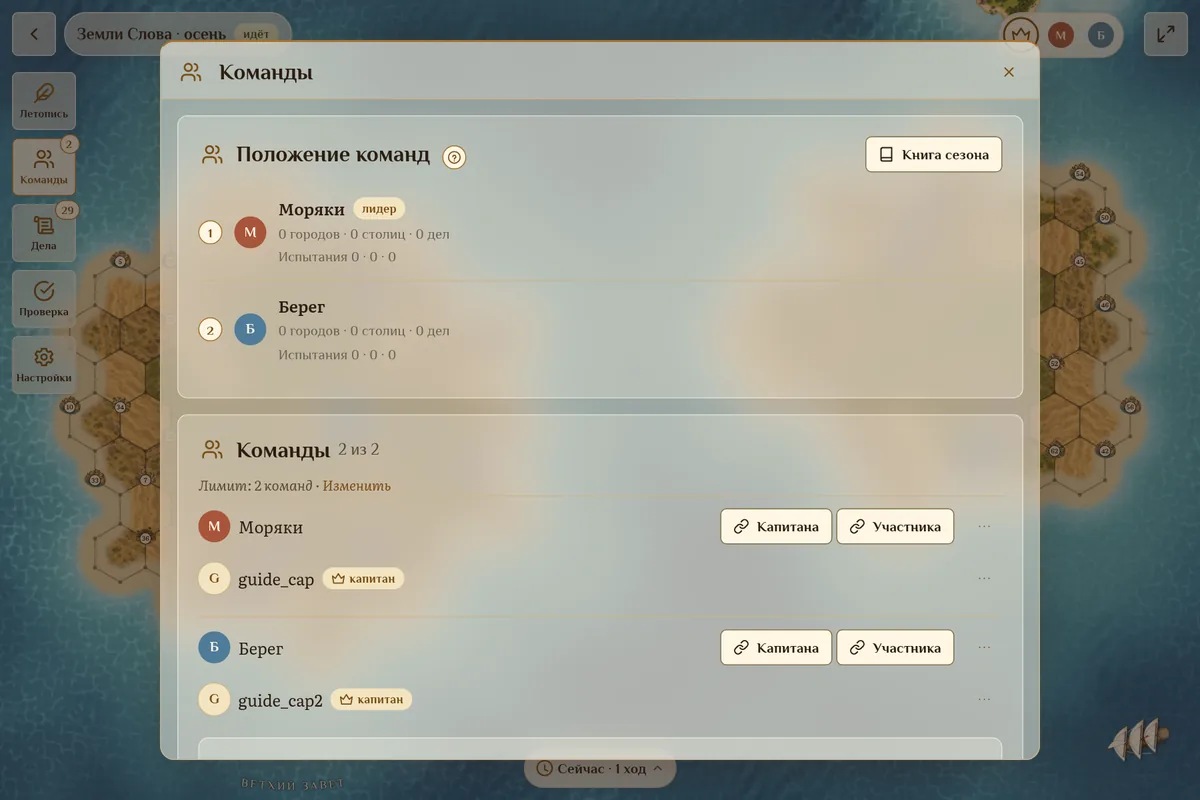
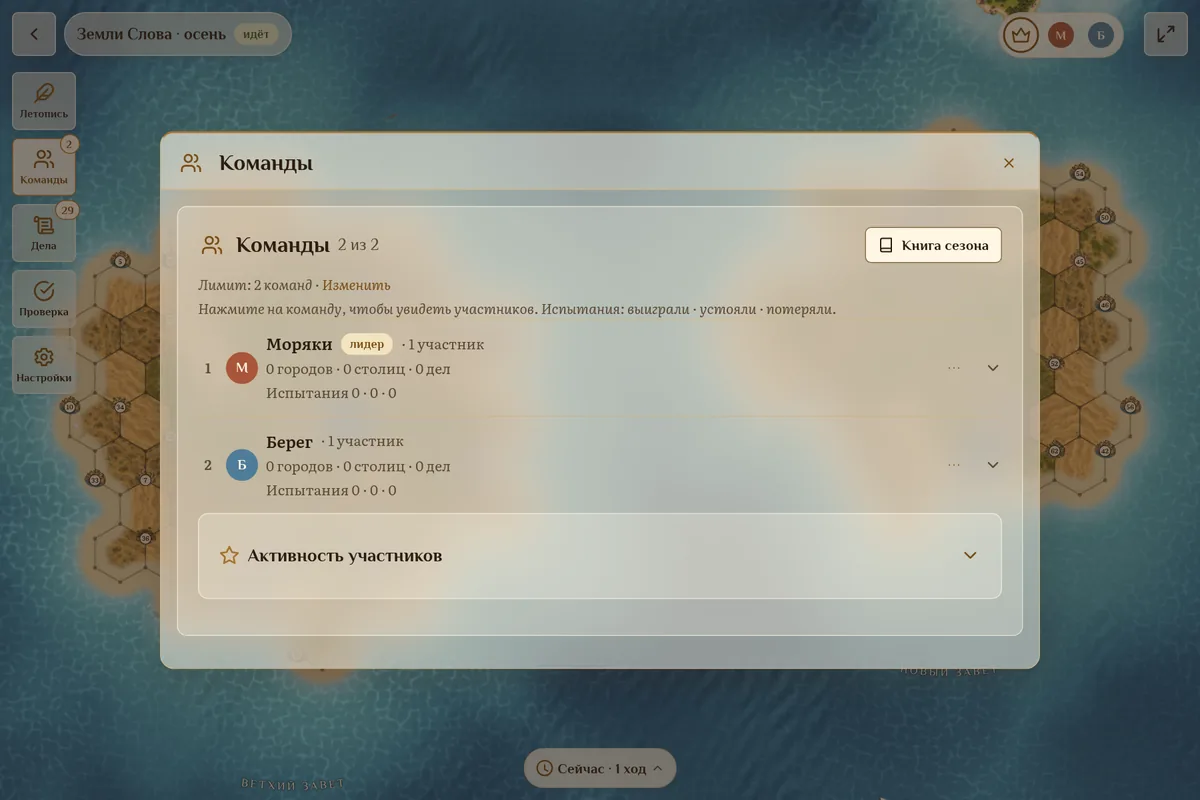
Блок «Команды» администратора: положение и список команд объединены, строка раскрывает участников
Claude-Session: https://claude.ai/code/session_01GYZTpVpHB6EzyvMrXyiWEP

diff --git a/apps/web/src/pages/TeamsBlock.tsx b/apps/web/src/pages/TeamsBlock.tsx
@@ -1,5 +1,7 @@
 import { useCallback, useEffect, useState, type FormEvent } from "react";
-import { api, ApiError, GAME_ROLE_ICON, GAME_ROLE_LABEL, TEAM_ROLE_LABEL, type GameRole, type TeamDto } from "../lib/api";
+import { api, ApiError, GAME_ROLE_ICON, GAME_ROLE_LABEL, TEAM_ROLE_LABEL, type GameRole, type StandingRow, type StandingsDto, type TeamDto } from "../lib/api";
+import { Link } from "react-router-dom";
+import { plural } from "../lib/format";
 import { useUi } from "../lib/ui";
 import { t } from "../lib/i18n";
 import { Icon } from "../components/Icon";
@@ -28,6 +30,10 @@ export function TeamsBlock({ gameId, teamCount, status, version = 0, onChange, g
   const [copiedKey, setCopiedKey] = useState<string | null>(null);
   /** Кому раскрыт ряд игровых ролей (пилюли вместо системного списка, 23.09). */
   const [pick, setPick] = useState<string | null>(null);
+  /** Положение команд и список участников — один раздел (решение владельца 23.09): строка команды с местом и цифрами,
+   * по нажатию раскрываются участники, приглашения и меню. */
+  const [standings, setStandings] = useState<StandingsDto | null>(null);
+  const [expanded, setExpanded] = useState<string | null>(null);
   const [busy, setBusy] = useState(false);
   const [open, setOpen] = useState(false);
   const { confirm, notify } = useUi();
@@ -35,6 +41,7 @@ export function TeamsBlock({ gameId, teamCount, status, version = 0, onChange, g
   const fail = (err: unknown) => notify(err instanceof ApiError ? err.message : t("Ошибка сети"), "bad");
 
   const load = useCallback(() => api<{ teams: TeamDto[] }>(`/api/games/${gameId}/teams`).then((r) => { setTeams(r.teams); setLoadError(false); }).catch(() => setLoadError(true)), [gameId]);
+  useEffect(() => { if (status === "DRAFT") { setStandings(null); return; } api<StandingsDto>(`/api/games/${gameId}/standings`).then(setStandings).catch(() => {}); }, [gameId, status, version]);
   const reload = async () => { await load(); onChange?.(); };
   useEffect(() => { void load(); }, [load, teamCount, version]);
 
@@ -109,25 +116,43 @@ export function TeamsBlock({ gameId, teamCount, status, version = 0, onChange, g
     <div className="card">
       <div className="card-head">
         <h2><span className="ico"><Icon name="users" /></span>{t("Команды")} {teams && <span className="count">{t("{a} из {b}", { a: teams.length, b: teamCount })}</span>}</h2>
+        {standings && <Link to={`/games/${gameId}/book`} className="btn secondary sm"><Icon name="book" />{t("Книга сезона")}</Link>}
         {!full && <button type="button" className="sm" onClick={() => setOpen(true)} disabled={!teams}><Icon name="plus" />{t("Добавить")}</button>}
       </div>
       {teams && full && <p className="hint">{limit[0]}{goToSettings && limit[1] && <> · <a href="#settings" onClick={(e) => { e.preventDefault(); goToSettings(); }}>{limit[1]}</a></>}</p>}
-      {loadError ? <ErrorState onRetry={() => void load()} /> : !teams ? <LoadingState /> : teams.length === 0 ? <EmptyState inline icon="users" text={t("Команд пока нет: добавьте первую.")} /> : teams.map((tm) => (
-        <div key={tm.id} className="team-block">
-          <div className="row between nowrap">
-            <TeamAvatar name={tm.name} color={tm.color} withName />
-            <div className="row nowrap">
-              <span className="invite-btns" role="group" aria-label={t("Пригласить")}>
-                <button type="button" className="secondary sm" disabled={inviting === `${tm.id}:CAPTAIN`} title={t("Скопировать ссылку для капитана")} onClick={() => void inviteCopy(tm.id, "CAPTAIN")}><Icon name={copiedKey === `${tm.id}:CAPTAIN` ? "check" : "link"} />{t("Капитана")}</button>
-                <button type="button" className="secondary sm" disabled={inviting === `${tm.id}:MEMBER`} title={t("Скопировать ссылку для участников")} onClick={() => void inviteCopy(tm.id, "MEMBER")}><Icon name={copiedKey === `${tm.id}:MEMBER` ? "check" : "link"} />{t("Участника")}</button>
-              </span>
+      {standings && <p className="hint">{t("Нажмите на команду, чтобы увидеть участников. Испытания: выиграли · устояли · потеряли.")}</p>}
+      {loadError ? <ErrorState onRetry={() => void load()} /> : !teams ? <LoadingState /> : teams.length === 0 ? <EmptyState inline icon="users" text={t("Команд пока нет: добавьте первую.")} /> : ordered(teams, standings).map(({ tm, st, rank }) => {
+        const isOpen = expanded === tm.id;
+        const toggle = () => setExpanded(isOpen ? null : tm.id);
+        return (
+        <div key={tm.id} className={"team-block" + (isOpen ? " open" : "") + (st?.status === "defeated" ? " out" : "")}>
+          <div className="team-head" role="button" tabIndex={0} aria-expanded={isOpen} onClick={toggle} onKeyDown={(e) => { if (e.key === "Enter" || e.key === " ") { e.preventDefault(); toggle(); } }}>
+            {st && <span className="rank">{rank}</span>}
+            <TeamAvatar name={tm.name} color={tm.color} />
+            <div className="body">
+              <div className="name">{tm.name}
+                {st?.status === "defeated" ? <Chip tone="bad">{t("выбыла")}</Chip> : standings?.leaderTeamId === tm.id ? <Chip tone="accent">{t("лидер")}</Chip> : null}
+                <span className="muted small">· {plural(tm.members.length, ["участник", "участника", "участников"])}</span>
+              </div>
+              {st && <div className="nums">{plural(st.cities, ["город", "города", "городов"])} · {plural(st.capitals, ["столица", "столицы", "столиц"])} · {plural(st.deedsApproved, ["дело", "дела", "дел"])}</div>}
+              {st && <div className="nums">{t("Испытания {a} · {b} · {c}", { a: st.battlesWon, b: st.battlesRepelled, c: st.battlesLost })}</div>}
+            </div>
+            <div className="row nowrap" onClick={(e) => e.stopPropagation()} onKeyDown={(e) => e.stopPropagation()}>
               <ActionMenu label={t("Ещё")} items={[
                 { label: t("Переименовать"), icon: "edit", onSelect: () => { setRenameError(null); setRenaming({ id: tm.id, name: tm.name }); } },
                 ...(status === "DRAFT" ? [{ label: t("Удалить команду"), icon: "trash", danger: true, onSelect: () => void remove(tm) }] : []),
                 ...(status === "ACTIVE" && tm.status !== "defeated" ? [{ label: t("Оштрафовать: аннулировать участок пути"), icon: "alert", danger: true, onSelect: () => void penalize(tm) }] : []),
               ]} />
-              {tm.status === "defeated" && <Chip tone="bad">{t("выбыла")}</Chip>}
+              <Icon name="chevron" className="chev" />
             </div>
+          </div>
+          {isOpen && (<>
+          <div className="row team-invites">
+            <span className="muted small">{t("Пригласить")}:</span>
+            <span className="invite-btns" role="group" aria-label={t("Пригласить")}>
+              <button type="button" className="secondary sm" disabled={inviting === `${tm.id}:CAPTAIN`} title={t("Скопировать ссылку для капитана")} onClick={() => void inviteCopy(tm.id, "CAPTAIN")}><Icon name={copiedKey === `${tm.id}:CAPTAIN` ? "check" : "link"} />{t("Капитана")}</button>
+              <button type="button" className="secondary sm" disabled={inviting === `${tm.id}:MEMBER`} title={t("Скопировать ссылку для участников")} onClick={() => void inviteCopy(tm.id, "MEMBER")}><Icon name={copiedKey === `${tm.id}:MEMBER` ? "check" : "link"} />{t("Участника")}</button>
+            </span>
           </div>
           {fallback?.teamId === tm.id && <p className="hint invite-fallback"><a href={fallback.url}>{fallback.url}</a></p>}
           {tm.members.length === 0 ? <EmptyState inline icon="user" text={t("Пока никого: отправьте ссылку капитану.")} /> : (
@@ -167,8 +192,10 @@ export function TeamsBlock({ gameId, teamCount, status, version = 0, onChange, g
               })}
             </ul>
           )}
+          </>)}
         </div>
-      ))}
+        );
+      })}
       {moving && (
         <Sheet title={t("Перевести {nick}", { nick: moving.nick })} onClose={() => setMoving(null)} size="sm">
           <p className="hint">{t("В какую команду?")}</p>
@@ -209,4 +236,11 @@ export function TeamsBlock({ gameId, teamCount, status, version = 0, onChange, g
       )}
     </div>
   );
+}
+
+/** Команды в порядке положения (когда игра идёт), иначе по номеру; вместе со строкой положения и местом. */
+function ordered(teams: TeamDto[], standings: StandingsDto | null): Array<{ tm: TeamDto; st: StandingRow | null; rank: number }> {
+  if (!standings) return teams.map((tm, i) => ({ tm, st: null, rank: i + 1 }));
+  const byId = new Map(standings.standings.map((st, i) => [st.teamId, { st, rank: i + 1 }]));
+  return [...teams].sort((a, b) => (byId.get(a.id)?.rank ?? 99) - (byId.get(b.id)?.rank ?? 99)).map((tm) => ({ tm, st: byId.get(tm.id)?.st ?? null, rank: byId.get(tm.id)?.rank ?? 0 }));
 }

diff --git a/apps/web/src/lib/en/changelog.ts b/apps/web/src/lib/en/changelog.ts
@@ -1,5 +1,6 @@
 /** EN-строки раздела «Что нового». Ключ — русская строка из content/changelog.ts. */
 export const CHANGELOG_EN: Record<string, string> = {
+  "Блок «Команды» у администратора: «Положение команд» и список команд объединены. Строка команды показывает место, города, столицы, дела и испытания; нажатие раскрывает участников, приглашения и меню команды.": "Administrator’s “Teams” block: “Team standings” and the team list are merged. A team row shows rank, cities, capitals, deeds and trials; a tap opens the members, invitations and the team menu.",
   "Блок «Команды» у администратора: строки участников компактные (имя, роль и меню в одну строку), роль выбирается пилюлями, как в составе у капитана; подпись «участник» убрана, у капитана и заместителя — свои значки.": "Administrator’s “Teams” block: member rows are compact (name, role and menu on one line), the role is chosen with pills like in the captain’s roster; the “member” label is gone, the captain and deputy have their own icons.",
   "Состав на странице команды до старта: заголовок — название команды, строки компактные (имя, роль и звезда заместителя в одну строку), знак «?» убран.": "Roster on the team page before the start: the heading is the team name, rows are compact (name, role and the deputy star on one line), the “?” is gone.",
   "Старт игры закрыт, пока у всех участников нет ролей: в чек-листе администратора видно, в каких командах и сколько людей без роли. Одну роль теперь могут носить несколько участников (например, два воина).": "The game cannot start until every member has a role: the administrator’s checklist shows which teams have how many members without one. Several members can now hold the same role (for example, two warriors).",

diff --git a/apps/web/src/styles/admin.css b/apps/web/src/styles/admin.css
@@ -128,7 +128,19 @@ details.legend .items span { display: inline-flex; align-items: center; gap: var
 .trial .list { margin-top: var(--sp-2); }
 
 /* Команды: блок команды и панель приглашения */
-.team-block { padding: var(--sp-3) 0; border-top: 1px solid var(--border); }
+.team-block { padding: var(--sp-2) 0; border-top: 1px solid var(--border); }
+/* Одна строка на команду (23.09): место, аватар, имя и цифры положения; нажатие раскрывает участников. */
+.team-head { display: flex; align-items: center; gap: var(--sp-2); cursor: pointer; padding: var(--sp-1) 0; border-radius: var(--r-md); }
+.team-head:focus-visible { outline: 2px solid var(--accent); outline-offset: 2px; }
+.team-head .rank { width: 20px; color: var(--muted); font-weight: 700; font-size: var(--fs-sm); text-align: center; flex: none; }
+.team-head .body { flex: 1; min-width: 0; display: flex; flex-direction: column; gap: 2px; }
+.team-head .name { font-weight: 600; display: flex; align-items: center; gap: var(--sp-2); flex-wrap: wrap; }
+.team-head .nums { color: var(--muted); font-size: var(--fs-sm); }
+.team-head .chev { width: 18px; height: 18px; color: var(--muted); transform: rotate(90deg); transition: transform .2s; flex: none; }
+.team-block.open .team-head .chev { transform: rotate(-90deg); }
+.team-block.out .team-head .name, .team-block.out .team-head .nums { color: var(--muted); }
+.team-invites { margin: var(--sp-2) 0 0; align-items: center; gap: var(--sp-2); flex-wrap: wrap; }
+.team-head .name .small { font-weight: 400; }
 .team-block:first-of-type { border-top: 0; }
 .team-block .list { margin-top: var(--sp-2); }
 .team-block .list > li { padding: var(--sp-2) 0; }

diff --git a/apps/web/src/lib/en/admin.ts b/apps/web/src/lib/en/admin.ts
@@ -130,6 +130,7 @@ export const ADMIN: Record<string, string> = {
   "Обращения в поддержку": "Support requests", "Только открытые": "Open only", "Показать закрытые": "Show closed",
   "Игроки пишут из задания: город, задание и текущая пауза подставляются сами. Ответ уходит команде уведомлением и письмом.": "Players write from a task: the city, the task and the current pause are filled in automatically. The reply goes to the team as a notification and an email.",
   // Чек-лист старта (сервер отдаёт ключи readiness, клиент переводит)
+  "Нажмите на команду, чтобы увидеть участников. Испытания: выиграли · устояли · потеряли.": "Tap a team to see its members. Trials: won · held · lost.",
   "Команды без капитана: {names} — назначьте капитана в блоке «Команды»": "Teams without a captain: {names} — appoint a captain in the “Teams” block",
   "Участники без роли: {names} — капитан раздаёт роли в составе команды, без ролей старт закрыт": "Members without a role: {names} — the captain hands out roles in the team roster; the game cannot start without them",
   "В командах по одному участнику: {names} — нужно не меньше двух, пригласите ещё людей": "Teams with a single member: {names} — at least two are needed, invite more people",

diff --git a/apps/web/src/content/changelog.ts b/apps/web/src/content/changelog.ts
@@ -6,6 +6,7 @@ export interface ChangeDay { date: string; items: string[] }
 
 export const CHANGELOG: ChangeDay[] = [
   { date: "2026-09-23", items: [
+    "Блок «Команды» у администратора: «Положение команд» и список команд объединены. Строка команды показывает место, города, столицы, дела и испытания; нажатие раскрывает участников, приглашения и меню команды.",
     "Блок «Команды» у администратора: строки участников компактные (имя, роль и меню в одну строку), роль выбирается пилюлями, как в составе у капитана; подпись «участник» убрана, у капитана и заместителя — свои значки.",
     "Состав на странице команды до старта: заголовок — название команды, строки компактные (имя, роль и звезда заместителя в одну строку), знак «?» убран.",
     "Старт игры закрыт, пока у всех участников нет ролей: в чек-листе администратора видно, в каких командах и сколько людей без роли. Одну роль теперь могут носить несколько участников (например, два воина).",

diff --git a/apps/web/src/pages/GamePage.tsx b/apps/web/src/pages/GamePage.tsx
@@ -190,7 +190,7 @@ export function GamePage() {
               {game.status !== "DRAFT" && <JournalAdmin gameId={game.id} version={version} active={active} />}
             </div>
           )}
-          {open === "teams" && <div key="teams">{active && <FinishBlock gameId={game.id} status={game.status} version={version} onChanged={refresh} part="standings" />}<TeamsBlock gameId={game.id} teamCount={game.teamCount} status={game.status} version={version} onChange={bump} goToSettings={() => setTab("settings")} /></div>}
+          {open === "teams" && <div key="teams"><TeamsBlock gameId={game.id} teamCount={game.teamCount} status={game.status} version={version} onChange={bump} goToSettings={() => setTab("settings")} /></div>}
           {open === "deeds" && <div key="deeds"><DeedsBlock gameId={game.id} version={version} onChange={bump} /></div>}
           {open === "review" && (active ? (
             <div key="review">
